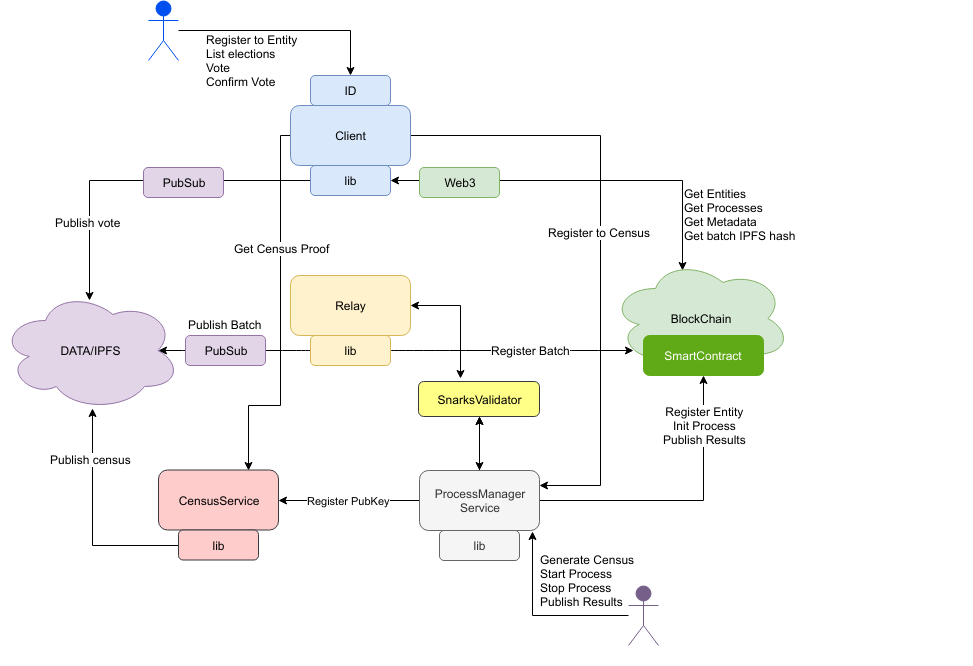
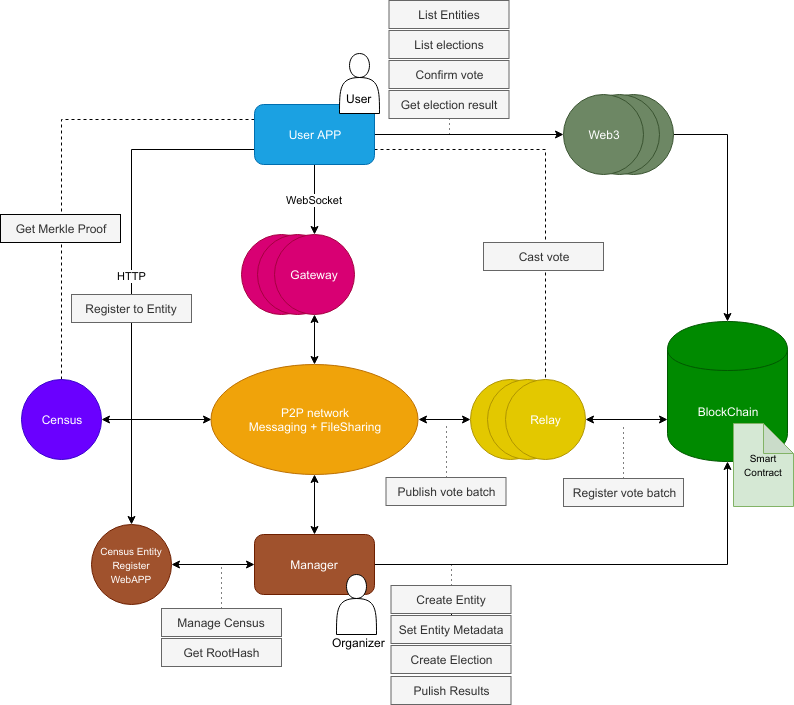
Update main architecture diagram

diff --git a/docs/protocol/arquitechture.md b/docs/protocol/arquitechture.md
@@ -39,7 +39,7 @@
 #### dvote-smart-contracts
 `The current contents are a work in progress`
 
-## IPFS/PSS
+## IPFS/Swarm
 `The current contents are a work in progress`
 
 ---
